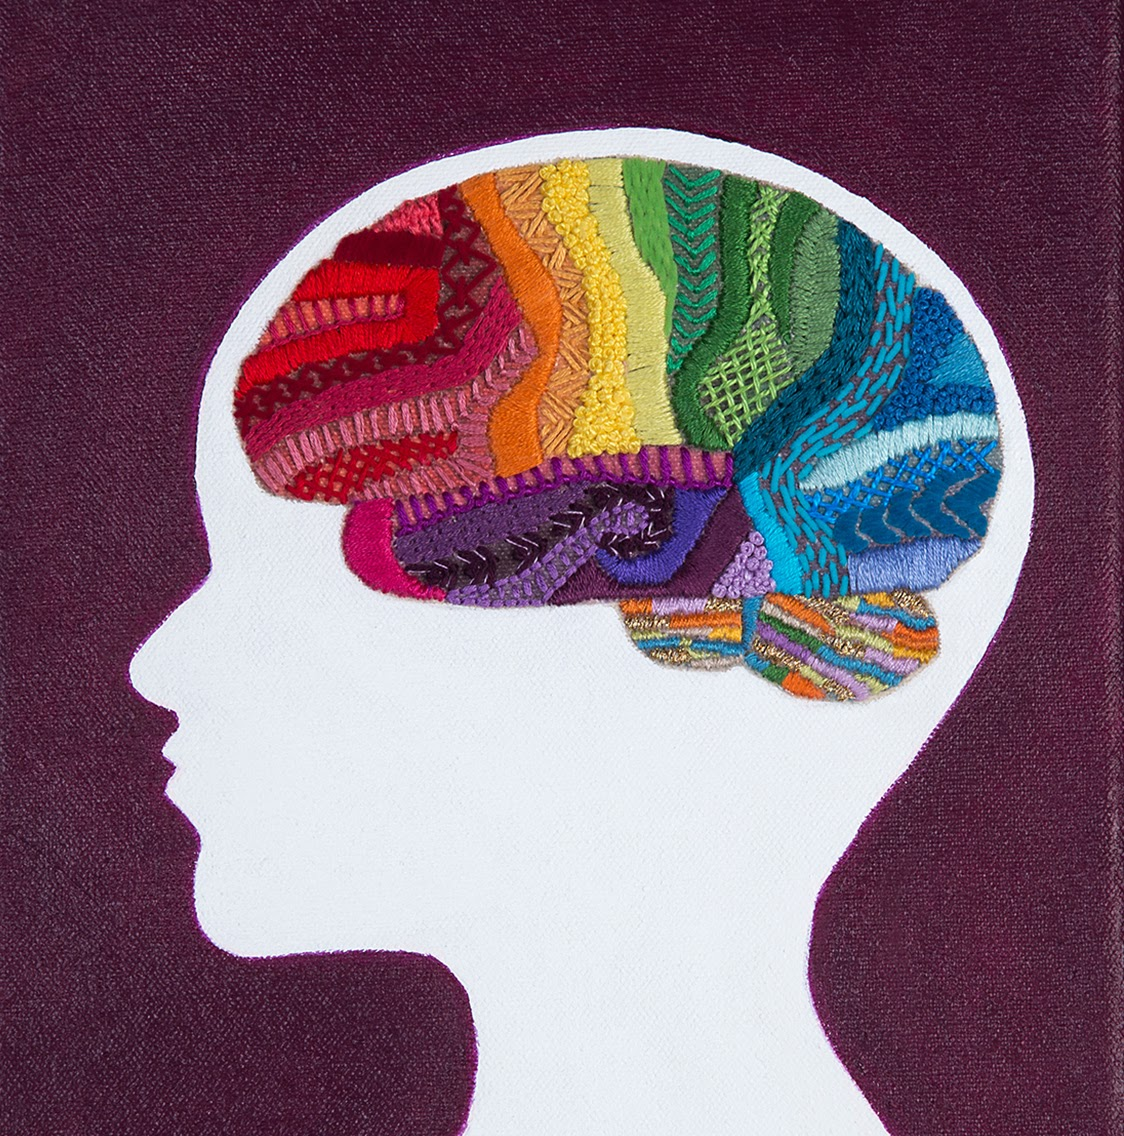
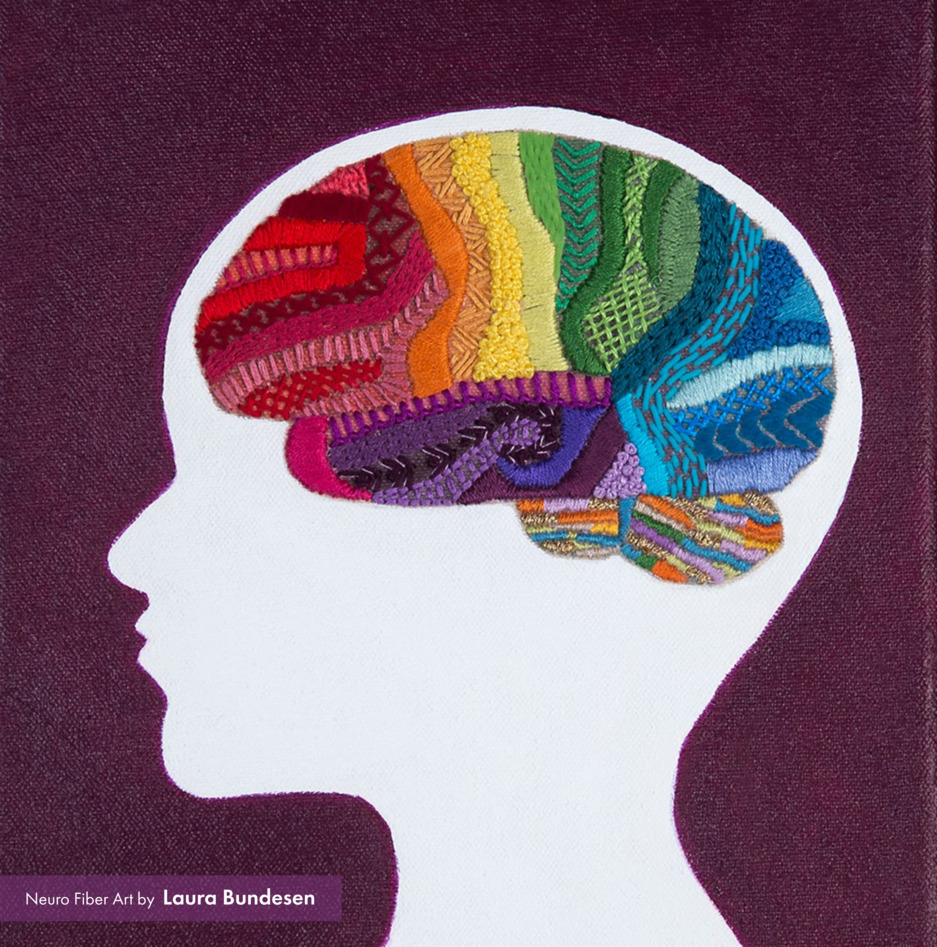
Attribution to Laura Bundesen

Changed region(s): [[0.0, 0.9187, 0.3714, 0.9799]]

diff --git a/index.html b/index.html
@@ -74,7 +74,8 @@
 				<!-- Two -->
 					<section id="two" class="wrapper alt style2">
 						<section class="spotlight">
-							<div class="image"><img src="images/pic01.jpg" alt="" /></div><div class="content">
+							<div class="image"><a href="https://www.laurabundesen.com/"><img src="images/pic01.jpg" alt="Neuro Fiber Art by Laura Bundesen" /></a></div>
+							<div class="content">
 							<h2><a href="about.html">About</a><br/></h2>
 								<p>SIG History, Board, Previous and current members</p>
 							</div>
@@ -117,8 +118,8 @@
 						<li><a href="https://www.youtube.com/channel/UCEDHzySmOPSNhPEWDTS0F8Q" class="icon brands fa-youtube"><span class="label">YouTube</span></a></li>   
 						<li><a href="https://www.instagram.com/ohbm_basig" class="icon brands fa-instagram"><span class="label">Instagram</span></a></li>
 					</ul>
-					<a class="twitter-timeline" data-width="900" data-height="750" data-theme="dark" href="https://twitter.com/OHBM_BrainArt?ref_src=twsrc%5Etfw">Tweets by OHBM_BrainArt</a> <script async src="https://platform.twitter.com/widgets.js" charset="utf-8"></script>
-						<br>
+					<!-- <a class="twitter-timeline" data-width="900" data-height="750" data-theme="dark" href="https://twitter.com/OHBM_BrainArt?ref_src=twsrc%5Etfw">Tweets by OHBM_BrainArt</a> <script async src="https://platform.twitter.com/widgets.js" charset="utf-8"></script>
+						<br> -->
 					
 					<i class="fab fa-github icon-3x"></i>
 					<!-- <li>&copy; </li><li> --> <a href="https://github.com/OHBM-BrainArt/ohbm-brainart.github.io/graphs/contributors">Brain Art SIG Website Team</a></li>
